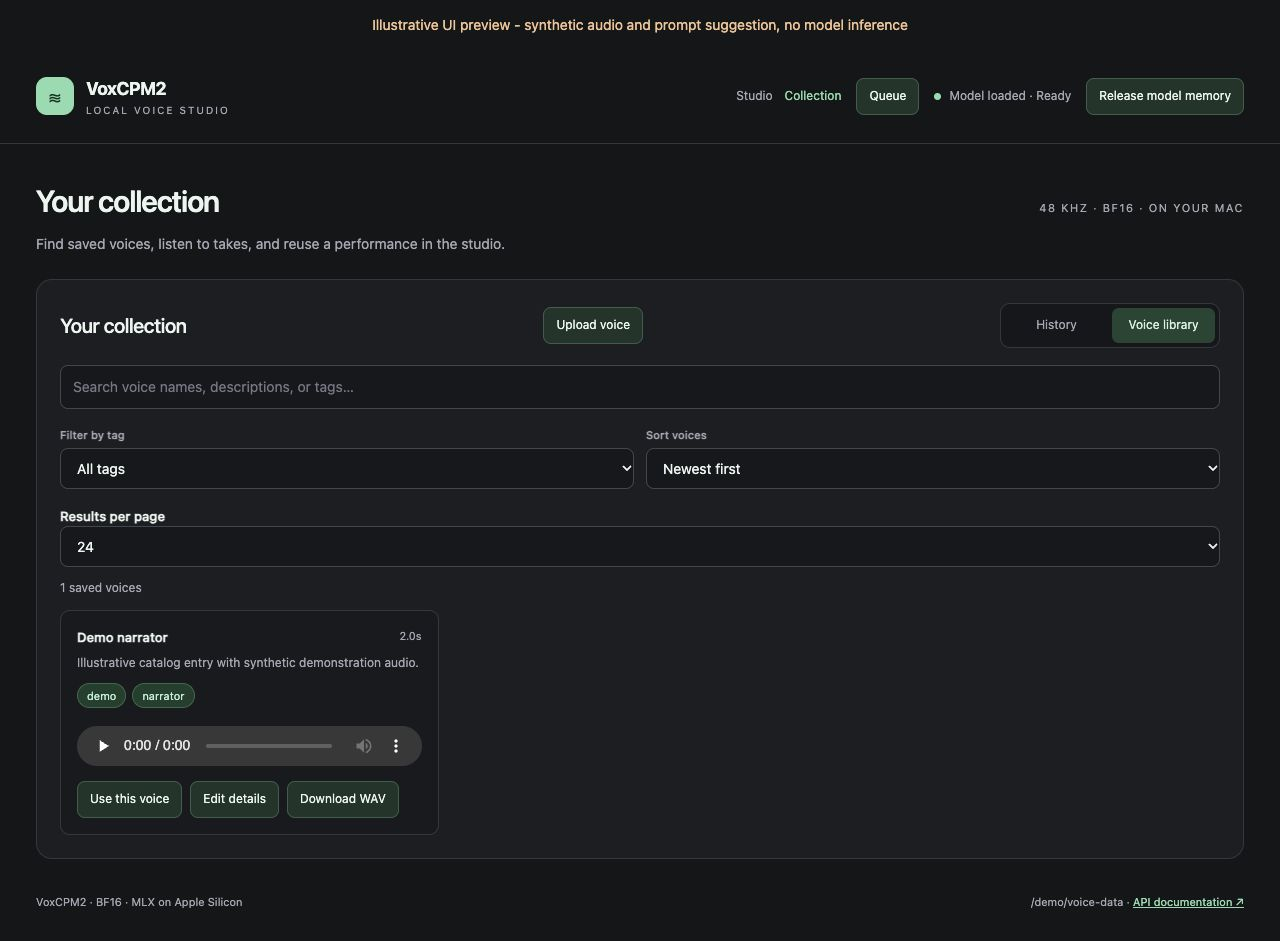
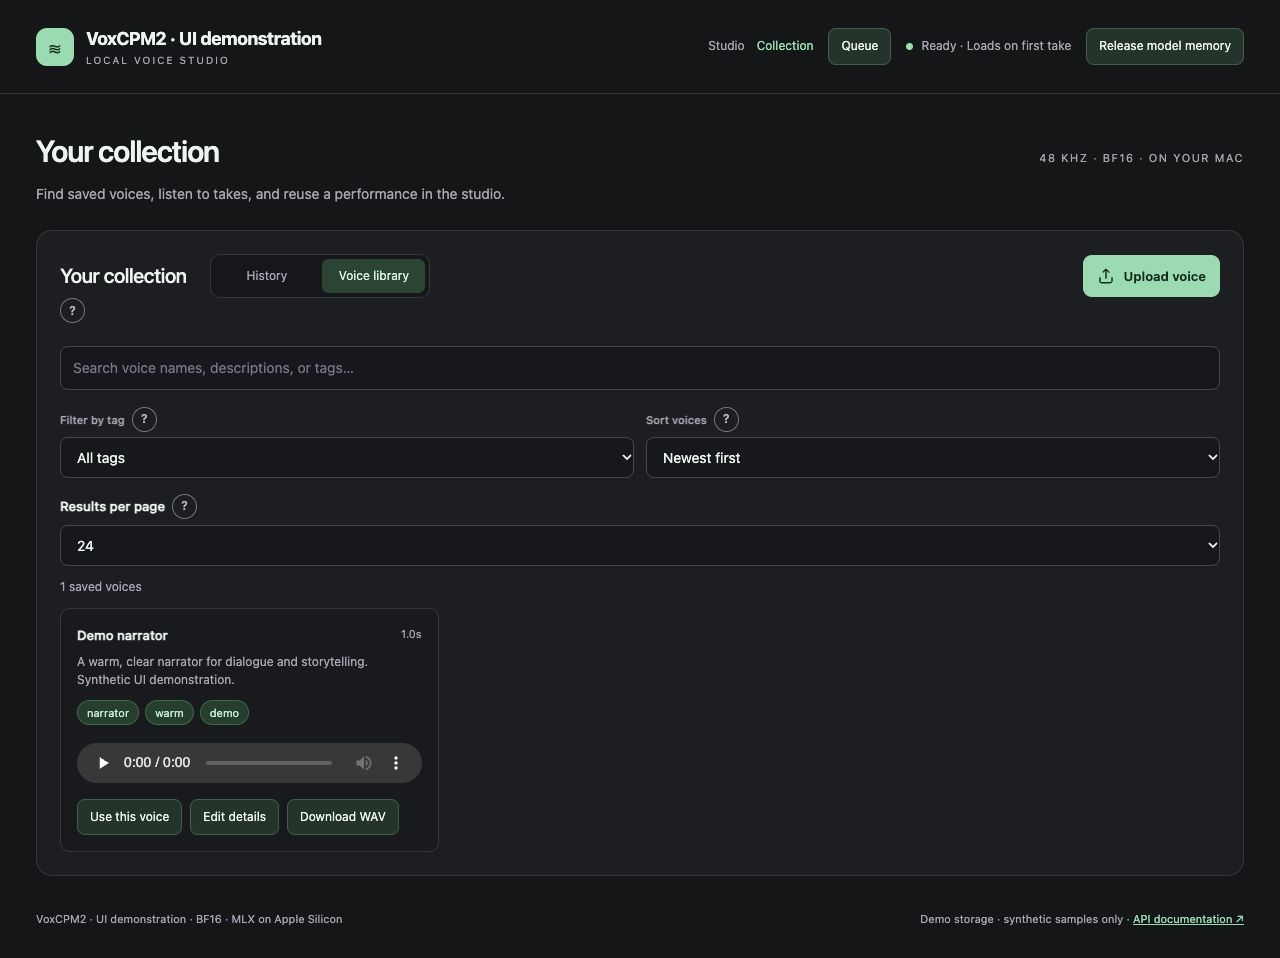
Make Collection upload a prominent header action

diff --git a/ui/index.html b/ui/index.html
@@ -14,6 +14,10 @@ html[data-page="studio"] #voice-catalog,html[data-page="collection"] #studio-lay
 html[data-page="collection"] #voice-catalog{margin-top:0}
 html[data-page="collection"] #cards{max-height:none;grid-template-columns:repeat(auto-fill,minmax(320px,1fr))}
 .header-links a[aria-current="page"]{color:var(--accent)}
+.collection-heading{display:flex;align-items:center;gap:24px;min-width:0}
+.collection-upload{width:auto;margin:0;display:inline-flex;align-items:center;justify-content:center;gap:8px;padding:10px 14px;min-height:42px;font-size:13px;flex-shrink:0}
+.collection-upload svg{width:18px;height:18px;flex:none}
+@media(max-width:720px){.collection-toolbar{display:grid;grid-template-columns:minmax(0,1fr) auto;gap:14px 10px}.collection-heading{display:contents}.collection-heading .tabs{grid-column:1 / -1;grid-row:2;width:100%}.collection-upload{grid-column:2;grid-row:1;min-height:44px;padding:10px 12px}}
 .queue-dialog{width:min(1180px,calc(100vw - 32px));height:80vh;max-height:80vh;height:80dvh;max-height:80dvh;margin:auto}
 .queue-dialog[open]{display:flex;flex-direction:column}
 .queue-dialog> :not(#queue-entries){flex-shrink:0}
@@ -77,7 +81,7 @@ html[data-page="collection"] #cards{max-height:none;grid-template-columns:repeat
 <label style="display:flex;align-items:start;gap:10px;margin:16px 0"><input id="generate-immediately" type="checkbox" checked style="width:auto;margin-top:5px">Generate immediately (next available slot)</label><p class="hint">Immediate takes run ahead of ordinary pending takes, in arrival order. A running take finishes first. Uncheck to join the normal FIFO queue.</p>
 <button class="primary" id="generate" type="submit"><span>Generate speech</span><span aria-hidden="true">↗</span></button><p class="shortcut">⌘ Enter to generate · All audio stays local</p><p class="error" id="error" role="alert" hidden></p>
 </form><div><section class="panel output" aria-label="Generated audio"><div class="output-top"><span class="eyebrow">The listening room</span><button type="button" class="plain" id="new-seed">Try a new seed ↗</button></div><section id="candidate-results" hidden aria-labelledby="candidate-title"><h2 id="candidate-title">Your voice options</h2><p id="candidate-summary" class="hint" role="status"></p><div id="candidate-cards" class="candidate-grid"></div></section><div class="empty" id="empty"><div class="symbol" aria-hidden="true">▂▅▃▇▂▆▃</div><h2>Your next voice starts here.</h2><p>Generate a take, listen to the performance, then save the voice for your next scene.</p></div><div class="working" id="working" hidden><div class="spinner"></div><strong id="stage">Generating speech</strong><p id="elapsed">Starting…</p><p>The first take also loads the model from the SSD.</p></div><div id="result" hidden><h2 id="result-title">Your latest take</h2><p class="hint" id="direction-summary" hidden></p><details id="result-expansion-details" class="expansion-details" hidden><summary>Expanded prompt for this take</summary><div class="expansion-content"></div></details><canvas id="waveform" aria-label="Waveform of generated speech" role="img"></canvas><audio id="player" controls preload="metadata"></audio><div class="result-meta"><span id="metrics"></span><span id="result-seed"></span></div><p class="notice" id="truncated" hidden>The audio reached its length limit. Try a shorter passage or raise the audio limit.</p><div class="result-tools"><a id="download" class="secondary" download>Download WAV</a><button type="button" class="secondary" id="reuse">Reuse settings</button><button type="button" class="secondary" id="adjust-pauses">Adjust pauses</button></div><div class="save-row"><label for="voice-name" class="sr-only">Name this voice</label><input id="voice-name" maxlength="100" placeholder="Name this character voice…"><button type="button" class="secondary" id="save-voice">Save to voice library</button></div><p class="hint" id="save-hint">Use a clean, natural take as your character reference. Up to the first 30 seconds are saved.</p><p id="path" class="path"></p></div></section></div></div>
-<section class="panel library" id="voice-catalog"><div class="section-top"><h2>Your collection</h2><button type="button" class="secondary" id="upload-voice">Upload voice</button><div class="tabs" role="tablist" aria-label="Collection"><button type="button" role="tab" data-collection="history" aria-selected="true">History</button><button type="button" role="tab" data-collection="voices" aria-selected="false">Voice library</button></div></div><label class="sr-only" for="search">Search your collection</label><input class="search" id="search" type="search" placeholder="Search text, voice descriptions, or emotions…"><div class="library-filters" id="voice-filters" hidden><div><label for="tag-filter">Filter by tag</label><select id="tag-filter"><option value="">All tags</option></select></div><div><label for="voice-sort">Sort voices</label><select id="voice-sort"><option value="newest">Newest first</option><option value="updated">Recently edited</option><option value="name">Name A–Z</option></select></div></div><div class="field" style="margin:0 0 12px"><label for="page-size">Results per page</label><select id="page-size"><option>12</option><option selected>24</option><option>48</option><option>100</option></select></div><p class="catalog-count" id="catalog-count" hidden></p><p class="voice-notice" id="voice-notice" role="status" hidden></p><div id="cards" class="cards"></div><div class="pagination" id="voice-pagination" hidden><button type="button" class="secondary" id="voice-prev">Previous</button><span class="tiny" id="voice-page-label"></span><button type="button" class="secondary" id="voice-next">Next</button></div><p class="hint" id="collection-empty">Your generated takes will appear here.</p></section></main>
+<section class="panel library" id="voice-catalog"><div class="section-top collection-toolbar"><div class="collection-heading"><h2>Your collection</h2><div class="tabs" role="tablist" aria-label="Collection"><button type="button" role="tab" data-collection="history" aria-selected="true">History</button><button type="button" role="tab" data-collection="voices" aria-selected="false">Voice library</button></div></div><button type="button" class="primary collection-upload" id="upload-voice"><svg viewBox="0 0 24 24" fill="none" stroke="currentColor" stroke-width="1.8" stroke-linecap="round" stroke-linejoin="round" aria-hidden="true"><path d="M12 15V3m-4 4 4-4 4 4M4 14v5a2 2 0 0 0 2 2h12a2 2 0 0 0 2-2v-5"/></svg>Upload voice</button></div><label class="sr-only" for="search">Search your collection</label><input class="search" id="search" type="search" placeholder="Search text, voice descriptions, or emotions…"><div class="library-filters" id="voice-filters" hidden><div><label for="tag-filter">Filter by tag</label><select id="tag-filter"><option value="">All tags</option></select></div><div><label for="voice-sort">Sort voices</label><select id="voice-sort"><option value="newest">Newest first</option><option value="updated">Recently edited</option><option value="name">Name A–Z</option></select></div></div><div class="field" style="margin:0 0 12px"><label for="page-size">Results per page</label><select id="page-size"><option>12</option><option selected>24</option><option>48</option><option>100</option></select></div><p class="catalog-count" id="catalog-count" hidden></p><p class="voice-notice" id="voice-notice" role="status" hidden></p><div id="cards" class="cards"></div><div class="pagination" id="voice-pagination" hidden><button type="button" class="secondary" id="voice-prev">Previous</button><span class="tiny" id="voice-page-label"></span><button type="button" class="secondary" id="voice-next">Next</button></div><p class="hint" id="collection-empty">Your generated takes will appear here.</p></section></main>
 <dialog id="queue-dialog" class="voice-editor queue-dialog" aria-labelledby="queue-title"><div class="section-top"><h2 id="queue-title">Generation queue</h2><div class="dialog-actions" style="margin:0"><button type="button" class="secondary" id="queue-clear">Clear pending</button><button type="button" class="secondary" id="close-queue" aria-label="Close queue">Close</button></div></div><p id="queue-service-dialog-notice" class="notice" role="status" hidden></p><p class="hint">Jobs wait for their selected model. Active generation is never interrupted; removing waiting jobs keeps completed audio and History.</p><div class="two"><div><label for="queue-status">Show</label><select id="queue-status"><option value="pending">Pending and running</option><option value="error">Failed</option><option value="done">Completed</option><option value="all">All entries</option></select></div><div><label for="queue-size">Entries per page</label><select id="queue-size"><option>12</option><option selected>24</option><option>100</option></select></div></div><p id="queue-count" class="hint" role="status"></p><p class="hint" id="queue-reorder-hint">Drag a handle or use its up/down arrow keys to reorder; Run Now runs first after active work finishes.</p><div id="queue-entries" class="cards"></div><div class="pagination"><button type="button" class="secondary" id="queue-prev">Previous</button><span id="queue-page" class="tiny"></span><button type="button" class="secondary" id="queue-next">Next</button></div><p class="error" id="queue-error" role="alert" hidden></p></dialog>
 <dialog id="expansion-preview" class="voice-editor" aria-labelledby="expansion-title"><h2 id="expansion-title">Expanded voice guidance</h2><p class="hint">Review the suggestion before applying. The LLM does not receive dialogue, transcripts or reference audio. Accent/identity and delivery still require listening.</p><h3>Original guidance</h3><pre id="expansion-original" class="hint" style="white-space:pre-wrap;overflow-wrap:anywhere"></pre><h3>Suggested guidance / controls</h3><pre id="expansion-updates" class="hint" style="white-space:pre-wrap;overflow-wrap:anywhere"></pre><p id="expansion-model" class="hint"></p><div class="dialog-actions"><button type="button" class="secondary" id="cancel-expansion">Keep original</button><button type="button" class="primary" id="apply-expansion">Apply guidance</button></div></dialog>
 <dialog id="voice-editor" class="voice-editor" aria-labelledby="voice-editor-title"><form id="voice-editor-form"><h2 id="voice-editor-title">Save a voice</h2><p class="hint" id="voice-editor-hint">Name this character, describe it, and add tags so you can find it later.</p><div id="voice-upload-field" hidden><label for="voice-upload-file">Voice recording</label><input type="file" id="voice-upload-file" accept="audio/*"><p class="hint">Upload 1–30 seconds of clear speech, up to 25 MB. The original file is preserved. This saves a reusable voice directly to Collection.</p></div><label for="edit-voice-name">Name</label><input id="edit-voice-name" maxlength="100" required placeholder="Transylvanian aristocrat"><label for="edit-voice-description">Description</label><textarea id="edit-voice-description" maxlength="2000" placeholder="A cultured baritone for the count. Calm, courteous, and quietly menacing."></textarea><p class="hint">Catalog notes. The saved reference recording defines the voice.</p><div id="edit-transcript-field"><label for="edit-transcript">Exact recording transcript</label><textarea id="edit-transcript" maxlength="3000" placeholder="Optional transcript for reference cloning"></textarea><p class="hint">Must match this saved recording exactly. Leave empty if uncertain.</p></div><label for="edit-voice-tags">Tags</label><input id="edit-voice-tags" placeholder="romanian, baritone, aristocrat, villain"><p class="hint">Separate tags with commas. Up to 20 tags, 40 characters each.</p><p class="error" id="voice-editor-error" role="alert" hidden></p><div class="dialog-actions"><button type="button" class="secondary" id="voice-editor-cancel">Cancel</button><button type="submit" class="primary" id="voice-editor-save">Save voice</button></div></form></dialog>
